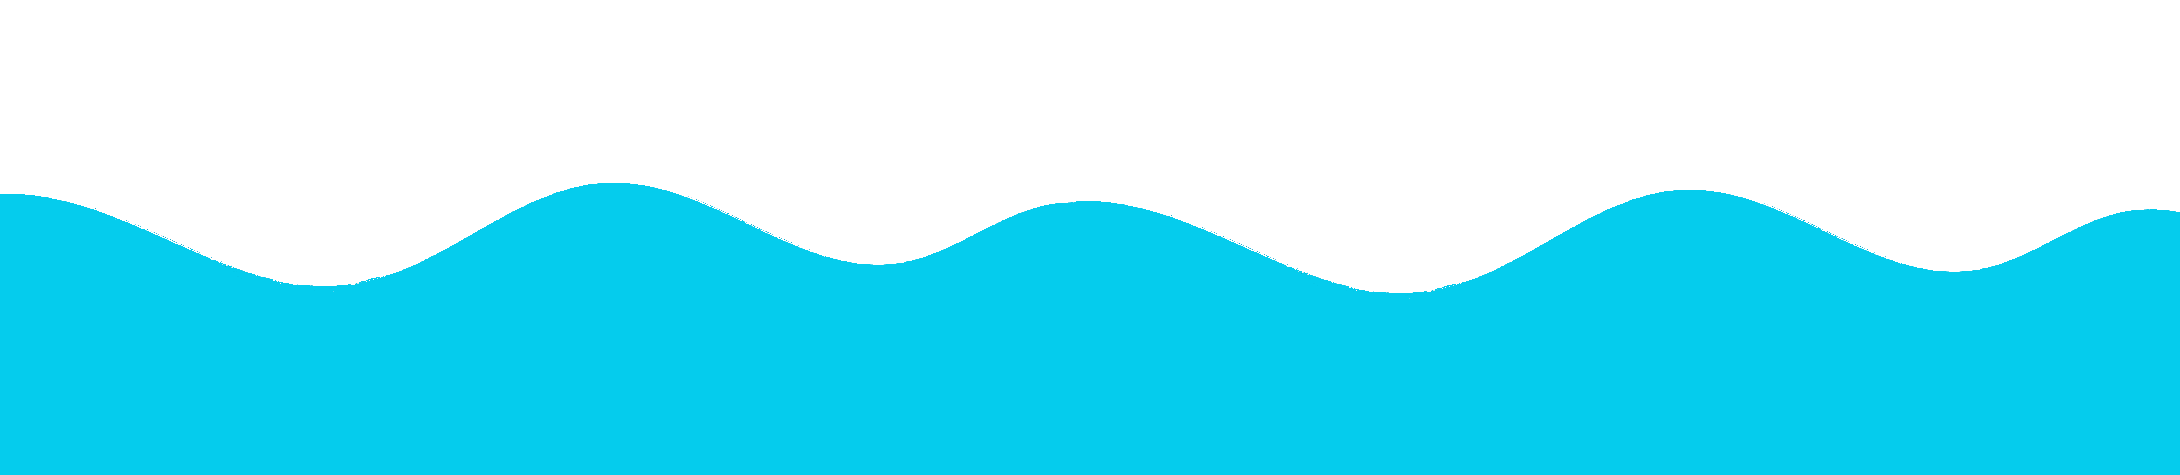
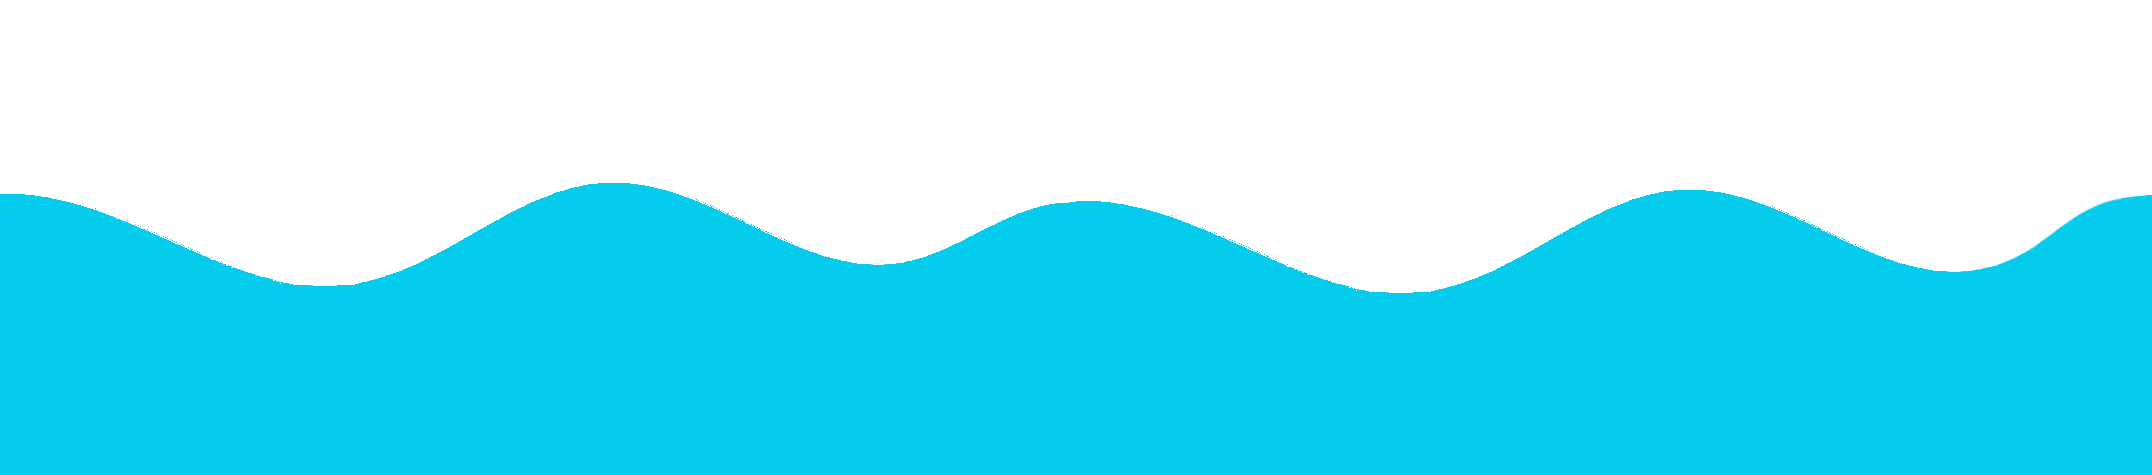
Implement animated waves + boat. Still needs polish/finesse on boat rocking animation

diff --git a/src/components/Wave.jsx b/src/components/Wave.jsx
@@ -1,0 +1,74 @@
+import { useEffect, useRef, useState } from "react";
+
+export default function Wave({image, speed}) {
+  const img1Ref = useRef(null);
+  const img2Ref = useRef(null);
+  const [imgWidth, setImgWidth] = useState(0);
+
+  // in case the user changes the width of their viewport
+  // this will adjust the image width
+  useEffect(() => {
+    const updateWidth = () => {
+      if (img1Ref.current) {
+        setImgWidth(img1Ref.current.offsetWidth);
+      }
+    };
+
+    window.addEventListener("resize", updateWidth);
+    return () => window.removeEventListener("resize", updateWidth);
+  }, []);
+
+  const handleImageLoad = () => {
+    if (img1Ref.current) {
+      setImgWidth(img1Ref.current.offsetWidth);
+    }
+  }
+
+  // do the animation stuff and reset it if speed or image width changes
+  useEffect(() => {
+    if (!imgWidth) return;
+
+    let x1 = 0;
+    let x2 = imgWidth;
+
+    const animate = () => {
+      x1 -= speed;
+      x2 -= speed;
+      
+      // if img1 moves fully out of viewport, place it in front of img2
+      // this creates the illusion of endless waves
+      if (x1 <= -imgWidth) {
+        x1 = x2 + imgWidth;
+      }
+
+      //do the same for img2
+      if (x2 <= -imgWidth) {
+        x2 = x1 + imgWidth;
+      }
+
+      img1Ref.current.style.transform = `translateX(${x1}px)`;
+      img2Ref.current.style.transform = `translateX(${x2}px)`;
+
+      requestAnimationFrame(animate);
+    };
+
+    animate();
+  }, [speed, imgWidth]);
+
+  return (
+    <div className="single-wave">
+      <img 
+        ref={img1Ref}
+        src={image}
+        alt=""
+        onLoad={handleImageLoad}
+      />
+      <img 
+        ref={img2Ref}
+        src={image}
+        alt=""
+        onLoad={handleImageLoad}
+      />
+    </div>
+  )
+}

diff --git a/src/components/BottomBar.css b/src/components/BottomBar.css
@@ -3,9 +3,49 @@
   min-width: 100vw;
   max-width: 100vw;
 
-  height: 20vh;
+  height: 475px;
 
   display: flex;
   align-items: center;
   justify-content: center;
 }
+
+.waves-viewport {
+  height: 100%;
+  width: 100%;
+  max-width: 1500px;
+  overflow-x: hidden;
+  position: relative;
+}
+
+.single-wave {
+  position: absolute;
+  height: 475px;
+  width: 100%;
+  max-width: 1500px;
+  overflow-x: hidden;
+}
+
+.single-wave img {
+  position: absolute;
+  left: 0;
+  top: 0;
+}
+
+#boat-img {
+  position: absolute;
+  left: 50px;
+  top: 30px;
+  height: 480px;
+  animation: riding-the-waves 2s linear infinite;
+  transform-origin: center;
+}
+
+@keyframes riding-the-waves {
+  0%   { transform: translateY(30px) rotateZ(5deg); }
+  25%  { transform: translateY(10px) rotateZ(0deg); }
+  50%  { transform: translateY(-20px) rotateZ(-5deg); }
+  75%  { transform: translateY(10px) rotateZ(0deg); }
+  100% { transform: translateY(30px) rotateZ(5deg); }
+}
+

diff --git a/src/components/BottomBar.jsx b/src/components/BottomBar.jsx
@@ -1,9 +1,21 @@
 import "./BottomBar.css";
+import BoatWDog from "../assets/BoatWDog.png";
+import Wave1 from "../assets/Wave1.png";
+import Wave2 from "../assets/Wave2.png";
+import Wave3 from "../assets/Wave3.png";
+import Wave4 from "../assets/Wave4.png";
+import Wave from "./Wave";
 
 export default function BottomBar() {
   return (
     <div id="bottom">
-      BOTTOM
+      <div class="waves-viewport">
+        <Wave image={Wave4} speed={5} />
+        <Wave image={Wave3} speed={6} />
+        <Wave image={Wave2} speed={7} />
+        <img id="boat-img" src={BoatWDog} />
+        <Wave image={Wave1} speed={8} />
+      </div>
     </div>
   )
 }

diff --git a/src/components/TopBar.css b/src/components/TopBar.css
@@ -3,7 +3,7 @@
   min-width: 100vw;
   max-width: 100vw;
 
-  height: 10vh;
+  height: calc(20vh - 475px);
   margin-top: 5vh;
   margin-bottom: 5vh;
 

diff --git a/src/components/MiddlePanels.css b/src/components/MiddlePanels.css
@@ -3,7 +3,7 @@
   min-width: 100vw;
   max-width: 100vw;
 
-  height: 60vh;
+  height: calc(80vh - 475px);
 
   display: flex;
 }
